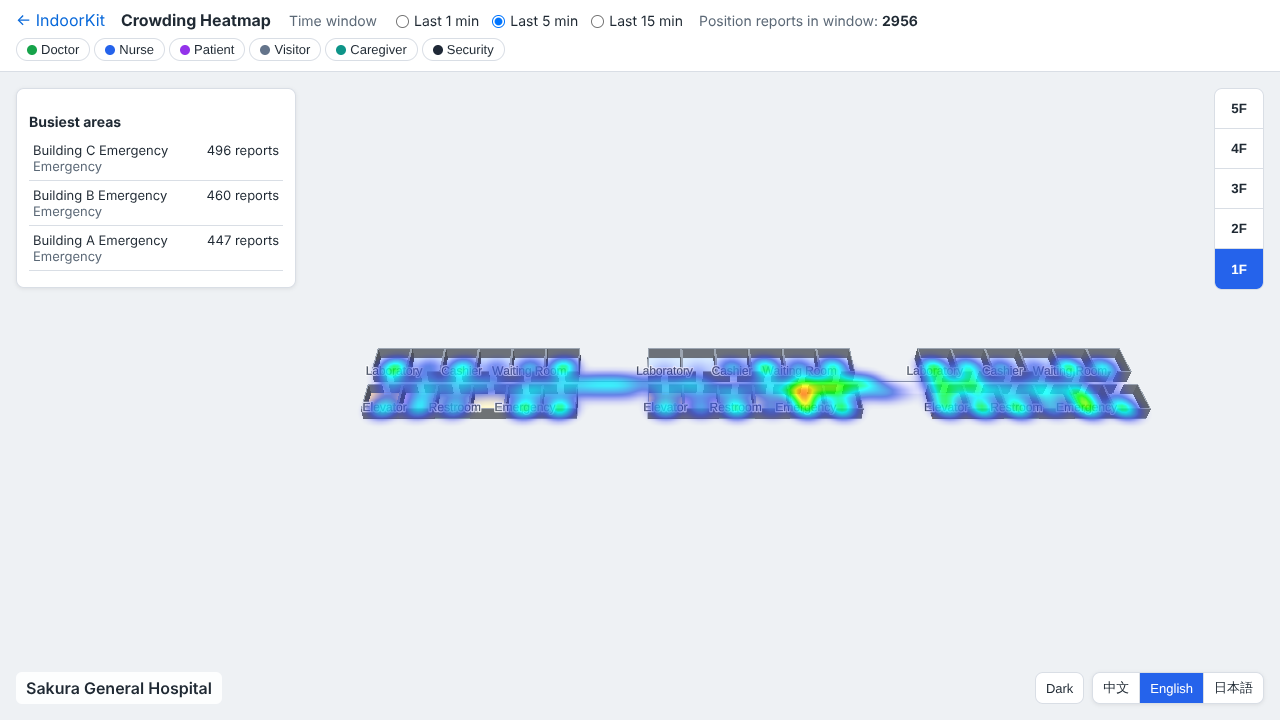
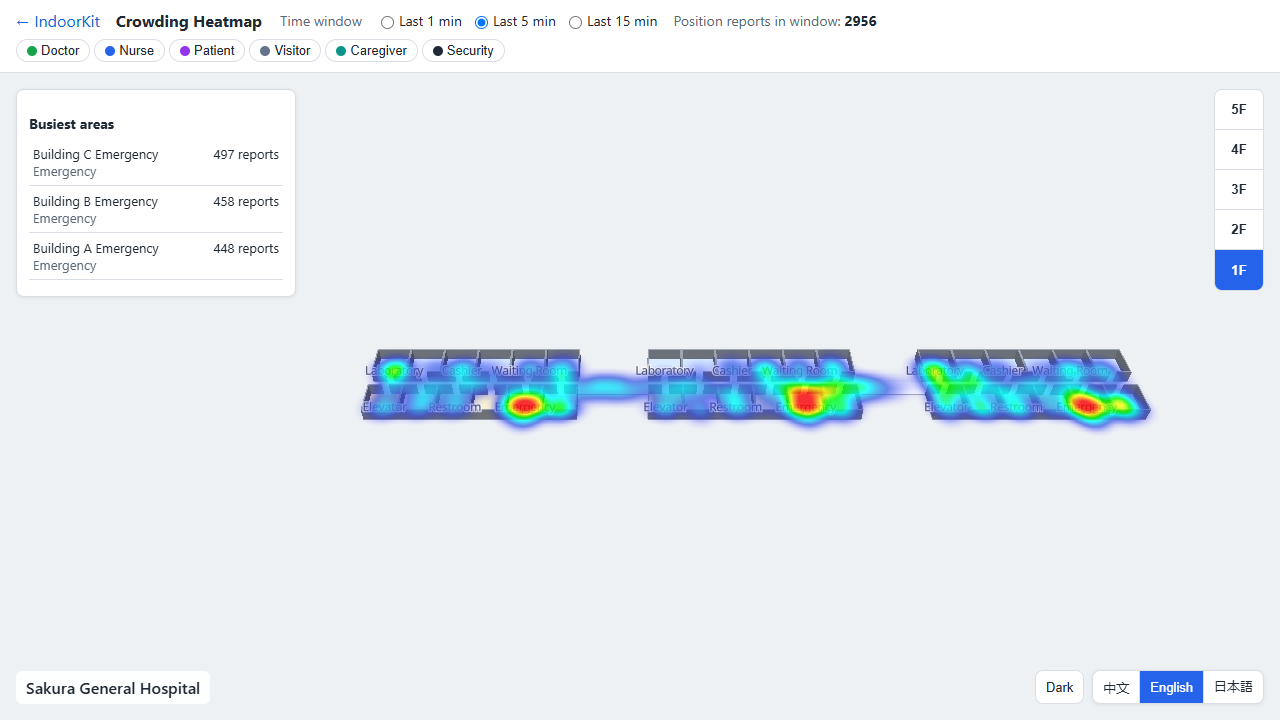
feat(rtls-simulator): add positioning noise so heat spreads like real RTLS
Reported positions now scatter around the true position the way a real
RTLS fix does: Gaussian noise (noiseMeters, default 0.8 m) truncated at
2 sigma and clamped 0.3 m inside the unit that holds the true position,
drawn from its own seeded RNG so movement stays deterministic. Fixed
assets are never jittered; a negative noise is rejected.

The README heatmap screenshot is retaken at the same report count as
the old one (2956 in the 5-min window) to show heat spreading through
rooms instead of sitting on fixed points.

Claude-Session: https://claude.ai/code/session_013TX9WtyKwG9As9XXmQsapf

diff --git a/tools/rtls-simulator/src/simulation.ts b/tools/rtls-simulator/src/simulation.ts
@@ -18,6 +18,8 @@ export interface SimulationOptions {
   tags: number;
   /** 设备数，默认 0 */
   assets?: number;
+  /** 定位误差的标准差（米），默认 0.8；误差不超过两倍标准差，0 表示不加误差 */
+  noiseMeters?: number;
 }
 
 export interface Simulation {
@@ -55,6 +57,8 @@ interface Tag {
   goal: Unit | null;
   levelId: string;
   pos: Vec;
+  /** 上报的位置：真实位置加上定位误差 */
+  reported: Vec;
   speed: number;
   unit: Unit;
   path: Vec[];
@@ -77,6 +81,9 @@ const STAY: Record<Role, number> = {
   security: 0.1,
 };
 const MOBILE_STAY = 0.5;
+const DEFAULT_NOISE = 0.8;
+/** 加误差后离单元边缘至少这么远，墙厚 0.2 m，所以不会落进墙里 */
+const NOISE_MARGIN = 0.3;
 
 function boxOf(geometry: GeoJSON.Geometry): Box {
   const ring = (geometry as GeoJSON.Polygon).coordinates[0]!;
@@ -99,7 +106,11 @@ const inBox = ([x0, y0, x1, y1]: Box, [x, y]: Vec) => x > x0 && x < x1 && y > y0
  * 只在电梯或楼梯里换层，所以不会穿墙。坐标内部用米，输出经纬度。
  */
 export function createSimulation(venue: VenueModel, options: SimulationOptions): Simulation {
+  const noise = options.noiseMeters ?? DEFAULT_NOISE;
+  if (!(noise >= 0)) throw new Error(`noiseMeters must be 0 or more, got ${options.noiseMeters}`);
   const rand = seededRandom(options.seed);
+  // 误差用单独的随机数，路线和不加误差时完全一样
+  const noiseRand = seededRandom(`${options.seed}/noise`);
   const roster = createRoster(venue, { people: options.tags, assets: options.assets ?? 0 });
   const [lng0, lat0] = venue.center;
   const mPerLng = 111_320 * Math.cos((lat0 * Math.PI) / 180);
@@ -139,6 +150,29 @@ export function createSimulation(venue: VenueModel, options: SimulationOptions):
     if (entry) room.door = { mid, entry, walkway };
   }
   const reachable = rooms.filter((r) => r.door);
+  const unitsByLevel = new Map<string, Unit[]>();
+  for (const u of units) unitsByLevel.set(u.levelId, [...(unitsByLevel.get(u.levelId) ?? []), u]);
+
+  /**
+   * 模拟 RTLS 的定位误差：真实位置加上截断在两倍标准差内的高斯误差，
+   * 再收回到真实位置所在单元的内侧，不会穿墙，也不会换房间。
+   */
+  const observe = (tag: Tag): Vec => {
+    if (noise === 0) return tag.pos;
+    const [x, y] = tag.pos;
+    const unit = unitsByLevel
+      .get(tag.levelId)!
+      .find((u) => onBoxEdge(u.box, tag.pos) || inBox(u.box, tag.pos));
+    if (!unit) throw new Error(`tag ${tag.id} at ${tag.pos} is outside every unit of ${tag.levelId}`);
+    const r = Math.min(noise * Math.sqrt(-2 * Math.log(1 - noiseRand())), 2 * noise);
+    const angle = noiseRand() * 2 * Math.PI;
+    const [x0, y0, x1, y1] = unit.box;
+    const clamp = (v: number, lo: number, hi: number) => {
+      if (hi - lo < 2 * NOISE_MARGIN) return (lo + hi) / 2;
+      return Math.min(Math.max(v, lo + NOISE_MARGIN), hi - NOISE_MARGIN);
+    };
+    return [clamp(x + r * Math.cos(angle), x0, x1), clamp(y + r * Math.sin(angle), y0, y1)];
+  };
 
   // 走廊之间共用一条边即相连，经过共用边的中点
   const portals = new Map<Unit, { to: Unit; at: Vec }[]>();
@@ -258,6 +292,7 @@ export function createSimulation(venue: VenueModel, options: SimulationOptions):
     goal: null,
     levelId: start.levelId,
     pos,
+    reported: pos,
     speed: 0.8 + rand() * 0.8,
     unit: start,
     path: [],
@@ -290,6 +325,8 @@ export function createSimulation(venue: VenueModel, options: SimulationOptions):
     tag.dwell = movable ? rand() * 240_000 : Infinity;
     tags.push(tag);
   }
+
+  for (const tag of tags) if (!tag.fixed) tag.reported = observe(tag);
 
   const advance = (tag: Tag, dtMs: number) => {
     let budget = dtMs;
@@ -328,7 +365,7 @@ export function createSimulation(venue: VenueModel, options: SimulationOptions):
   let time = 0;
   const positions = () =>
     tags.map((t): TagPosition => {
-      const p: TagPosition = { id: t.id, levelId: t.levelId, coord: toLngLat(t.pos) };
+      const p: TagPosition = { id: t.id, levelId: t.levelId, coord: toLngLat(t.reported) };
       if (t.asset) p.status = statusAt(t.asset, dayTime(time));
       else if (t.person && sosActive(t.person, dayTime(time))) p.status = 'sos';
       return p;
@@ -340,7 +377,11 @@ export function createSimulation(venue: VenueModel, options: SimulationOptions):
     positions,
     step(dtMs) {
       time += dtMs;
-      for (const tag of tags) if (!tag.fixed) advance(tag, dtMs);
+      for (const tag of tags) {
+        if (tag.fixed) continue;
+        advance(tag, dtMs);
+        tag.reported = observe(tag);
+      }
       return positions();
     },
   };

diff --git a/tools/rtls-simulator/test/simulation.test.ts b/tools/rtls-simulator/test/simulation.test.ts
@@ -104,3 +104,79 @@ describe('createSimulation', () => {
     expect(new Set(last.map((p) => p.levelId)).size).toBeGreaterThan(1);
   });
 });
+
+describe('positioning noise', () => {
+  const [, lat0] = venue.center;
+  const meters = (a: [number, number], b: [number, number]) =>
+    Math.hypot((a[0] - b[0]) * 111_320 * Math.cos((lat0 * Math.PI) / 180), (a[1] - b[1]) * 110_540);
+  const runWith = (noiseMeters: number | undefined, steps: number, dtMs: number) => {
+    const sim = createSimulation(venue, { seed: 'noise', tags: 60, noiseMeters });
+    const frames: TagPosition[][] = [sim.positions()];
+    for (let i = 0; i < steps; i++) frames.push(sim.step(dtMs));
+    return frames;
+  };
+  const exact = runWith(0, 300, 1000);
+  const noisy = runWith(undefined, 300, 1000);
+
+  it('reports the exact path when noise is off', () => {
+    const sim = createSimulation(venue, { seed: 'noise', tags: 60, noiseMeters: 0 });
+    for (const frame of exact.slice(1, 20)) {
+      const positions = sim.step(1000);
+      expect(positions).toEqual(frame);
+      expect(sim.positions()).toEqual(positions);
+    }
+  });
+
+  it('scatters reports around the true position by default, never further than twice the noise', () => {
+    let scattered = 0;
+    const problems: string[] = [];
+    for (let i = 0; i < exact.length; i++) {
+      for (let k = 0; k < exact[i]!.length; k++) {
+        const truth = exact[i]![k]!;
+        const report = noisy[i]![k]!;
+        expect(report.levelId).toBe(truth.levelId);
+        const d = meters(report.coord, truth.coord);
+        if (d > 0.05) scattered++;
+        if (d > 2 + 1e-6) problems.push(`${truth.id} reported ${d.toFixed(2)} m away`);
+      }
+    }
+    expect(problems.slice(0, 5)).toEqual([]);
+    expect(scattered / (exact.length * exact[0]!.length)).toBeGreaterThan(0.9);
+  });
+
+  it('jitters a tag that stands still between reports', () => {
+    let still = 0;
+    let jittered = 0;
+    for (let i = 1; i < exact.length; i++) {
+      for (let k = 0; k < exact[i]!.length; k++) {
+        const before = exact[i - 1]![k]!;
+        const after = exact[i]![k]!;
+        if (before.coord[0] !== after.coord[0] || before.coord[1] !== after.coord[1]) continue;
+        still++;
+        const a = noisy[i - 1]![k]!.coord;
+        const b = noisy[i]![k]!.coord;
+        if (a[0] !== b[0] || a[1] !== b[1]) jittered++;
+      }
+    }
+    expect(still).toBeGreaterThan(0);
+    expect(jittered).toBe(still);
+  });
+
+  it('keeps each report inside a unit that contains the true position', () => {
+    const problems: string[] = [];
+    for (let i = 0; i < exact.length; i++) {
+      for (let k = 0; k < exact[i]!.length; k++) {
+        const truth = unitAt(exact[i]![k]!);
+        const report = noisy[i]![k]!;
+        if (!truth.some((u) => within(u.box, report.coord))) {
+          problems.push(`${report.id} at ${report.coord} left its unit`);
+        }
+      }
+    }
+    expect(problems.slice(0, 5)).toEqual([]);
+  });
+
+  it('rejects a negative noise', () => {
+    expect(() => createSimulation(venue, { seed: 'n', tags: 1, noiseMeters: -1 })).toThrow(/noiseMeters/);
+  });
+});
